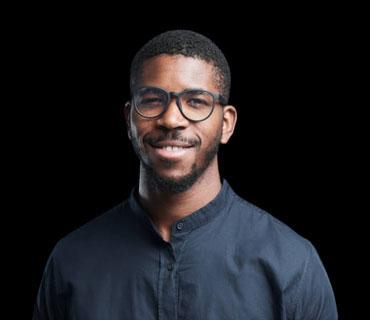
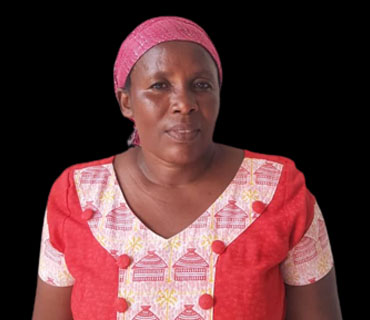
initial commit

diff --git a/index.html b/index.html
@@ -834,9 +834,10 @@
                       <h3>Fionnah Umunyana BAZIZANE</h3>
                       <h2>Managing Director</h2>
                       <div class="text">
-                        Meet the maker of our bread – our fabulous baker boy
-                        alberto Trombin. He creates superb bread in their
-                        Melbourne-based bread-quarters.
+                        She provides inspiration, motivation, and guidance to
+                        leaders and managers in a company and she is in charge
+                        of directing the company's operations to make sure it
+                        achieves its objectives effectively and efficiently.
                       </div>
                       <div class="social-links">
                         <a href="#"
@@ -869,9 +870,9 @@
                       <h3>Blaise Pascal ISHIMWE</h3>
                       <h2>Operation Manager</h2>
                       <div class="text">
-                        Meet the maker of our bread – our fabulous baker boy
-                        alberto Trombin. He creates superb bread in their
-                        Melbourne-based bread-quarters.
+                        He oversee operational activities at every level of an
+                        organization and his duties include hiring and training
+                        employees and managing quality assurance programs
                       </div>
                       <div class="social-links">
                         <a href="#"
@@ -906,11 +907,12 @@
                       <h3>Josue TUYISHIME Sales</h3>
                       <h2>Marketing Manager</h2>
 
-                      <div class="text">
-                        Meet the maker of our bread – our fabulous baker boy
-                        alberto Trombin. He creates superb bread in their
-                        Melbourne-based bread-quarters.
-                      </div>
+                      He is responsible for developing, implementing and
+                      executing strategic marketing plans for an entire
+                      organization (or lines of business and brands ) in order
+                      to attract potential customers and retain existing ones
+
+                      <div class="text"></div>
                       <div class="social-links">
                         <a href="#"
                           ><span class="fa fa-facebook-official"></span
@@ -926,6 +928,43 @@
               </div>
             </div>
             <!--  -->
+
+            <div class="col-lg-8 col-md-12 col-sm-12 col-xs-12">
+              <!--Default Team Member-->
+              <div class="default-team-member">
+                <div class="inner-box clearfix">
+                  <!--Image Column-->
+                  <div class="image-column">
+                    <figure class="image">
+                      <a href="#"
+                        ><img src="images/resource/team-image-4.jpg" alt=""
+                      /></a>
+                    </figure>
+                  </div>
+                  <!--Content Column-->
+                  <div class="content-column">
+                    <div class="inner">
+                      <h3>Izabiriza Jeanne d'arc</h3>
+                      <h2>Custodian</h2>
+                      She keep the building and grounds clean and neat, in a
+                      safe manner that meets company standards. They use
+                      cleaning chemicals to maintain equipment and other
+                      supplies .
+                      <div class="text"></div>
+                      <div class="social-links">
+                        <a href="#"
+                          ><span class="fa fa-facebook-official"></span
+                        ></a>
+                        <a href="#"><span class="fa fa-twitter"></span></a>
+                        <a href="#"><span class="fa fa-instagram"></span></a>
+                        <a href="#"><span class="fa fa-skype"></span></a>
+                        <a href="#"><span class="fa fa-vimeo-square"></span></a>
+                      </div>
+                    </div>
+                  </div>
+                </div>
+              </div>
+            </div>
           </div>
         </div>
       </section>
